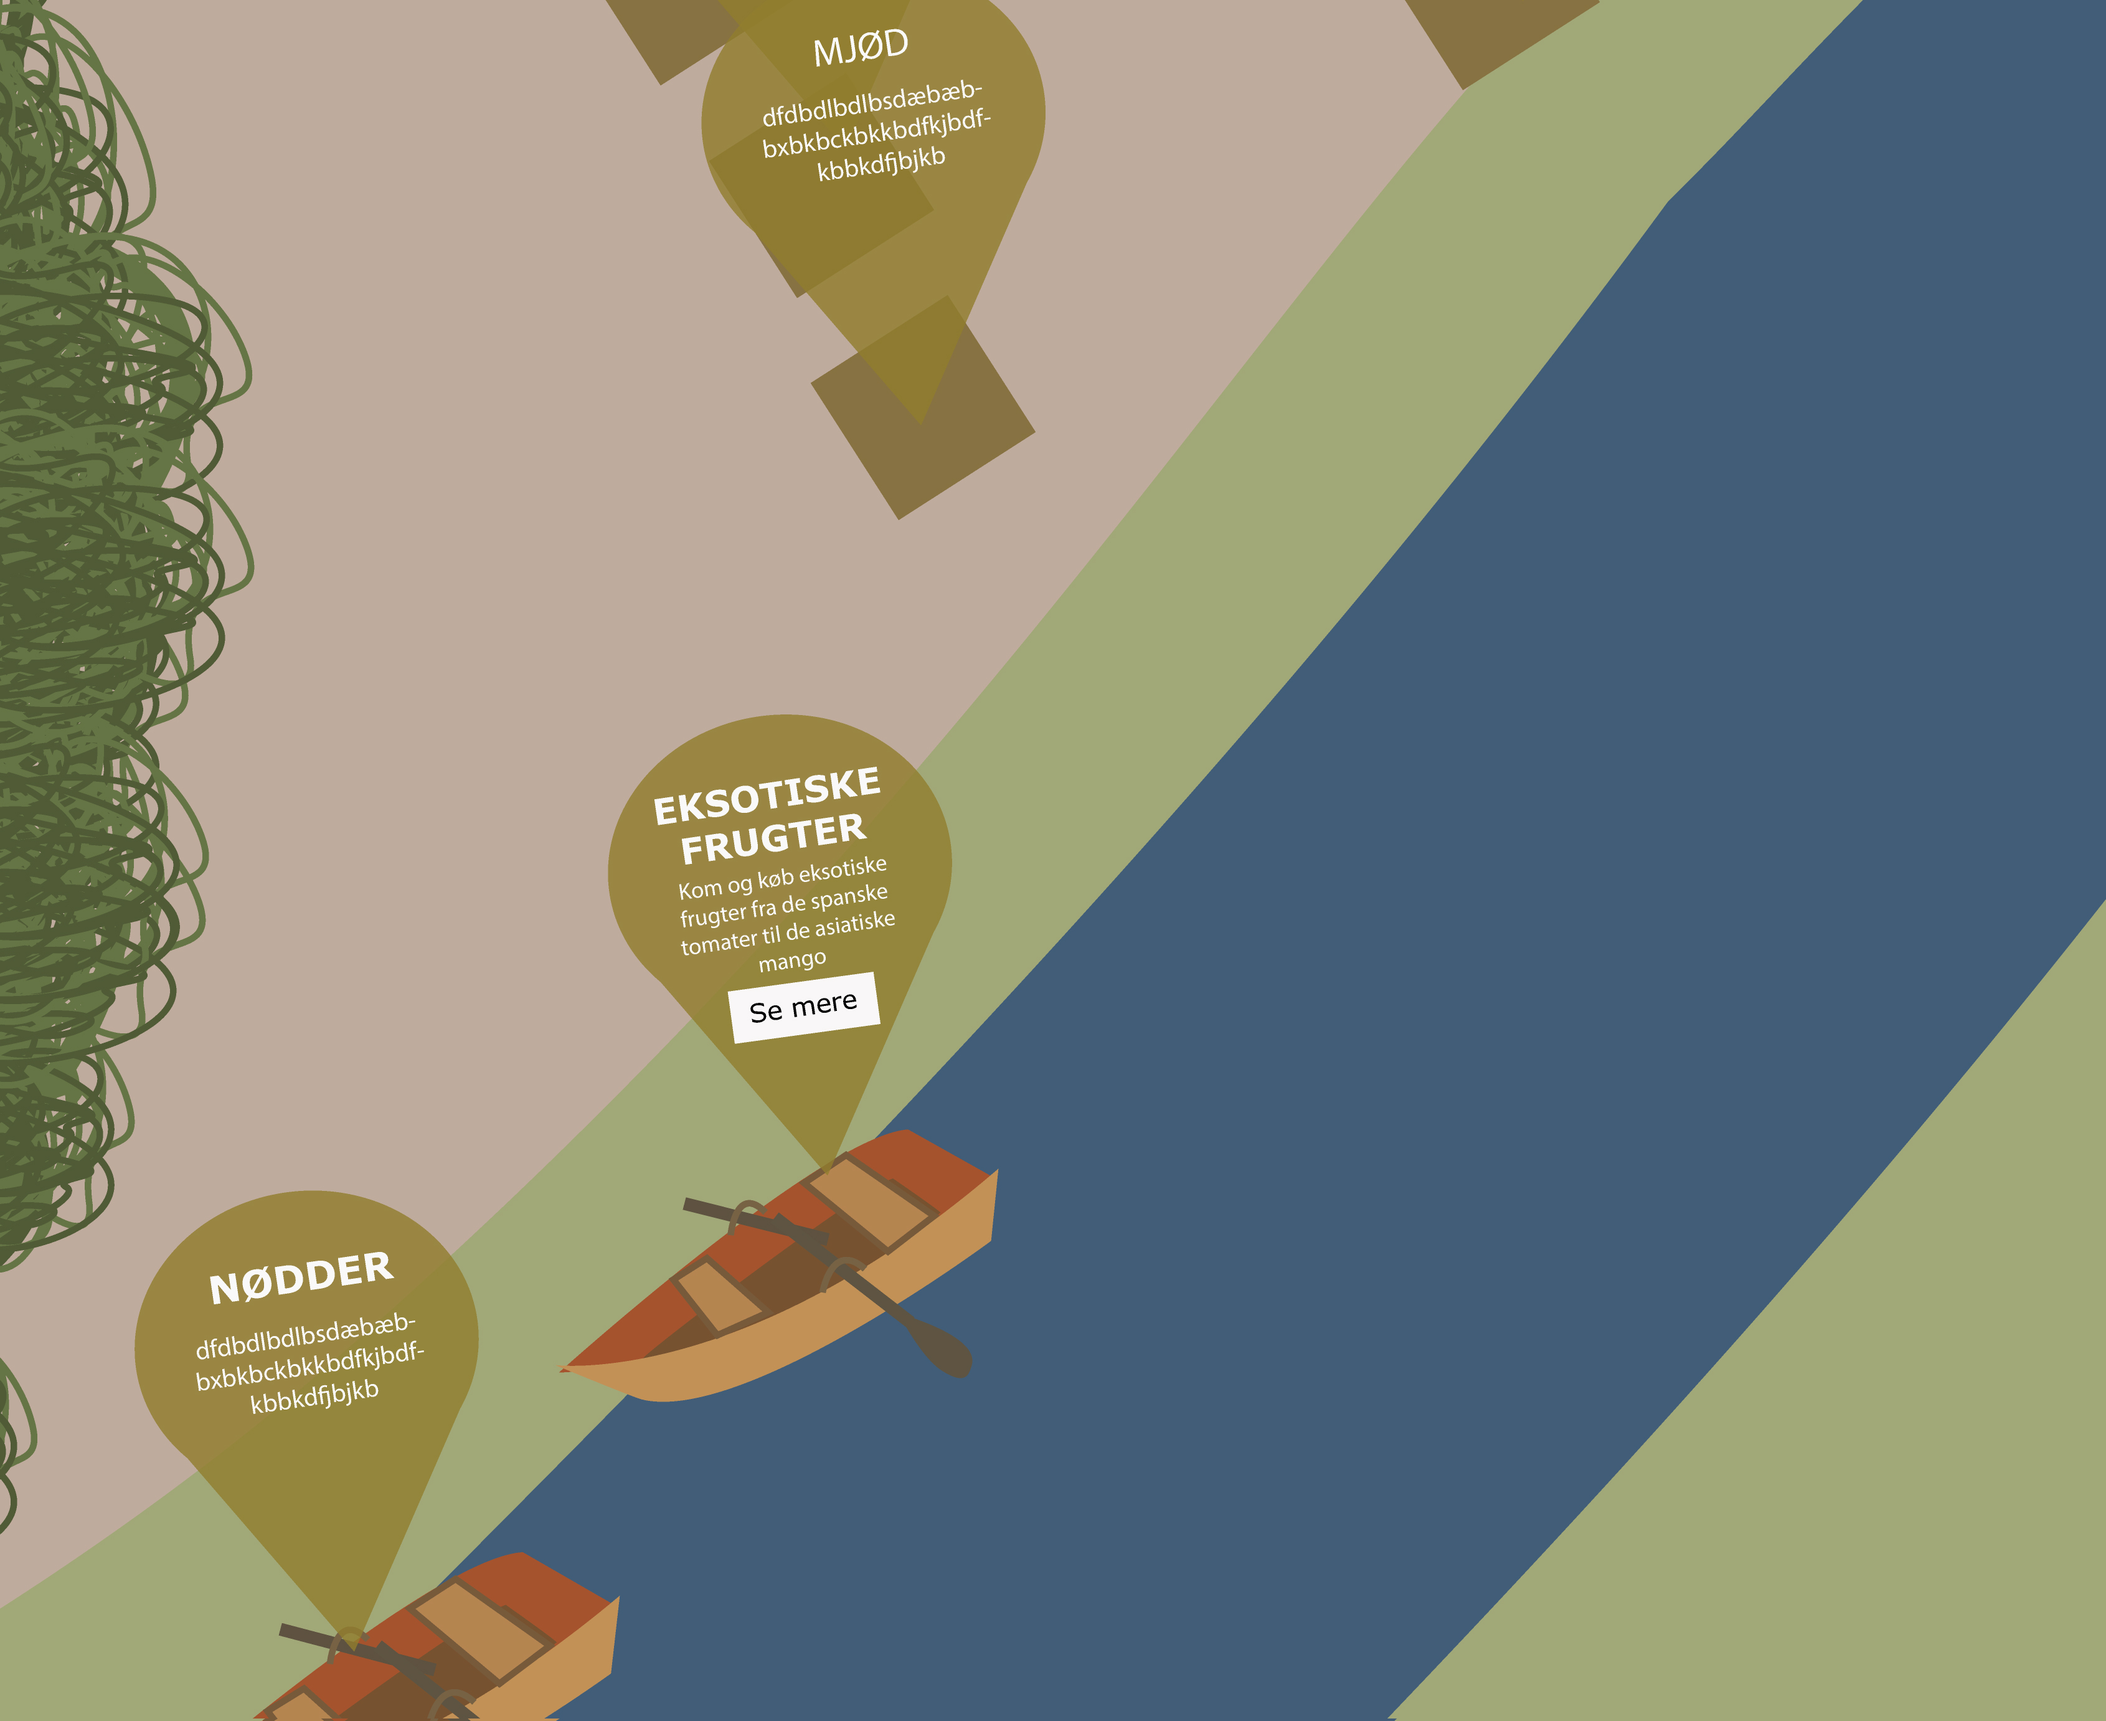
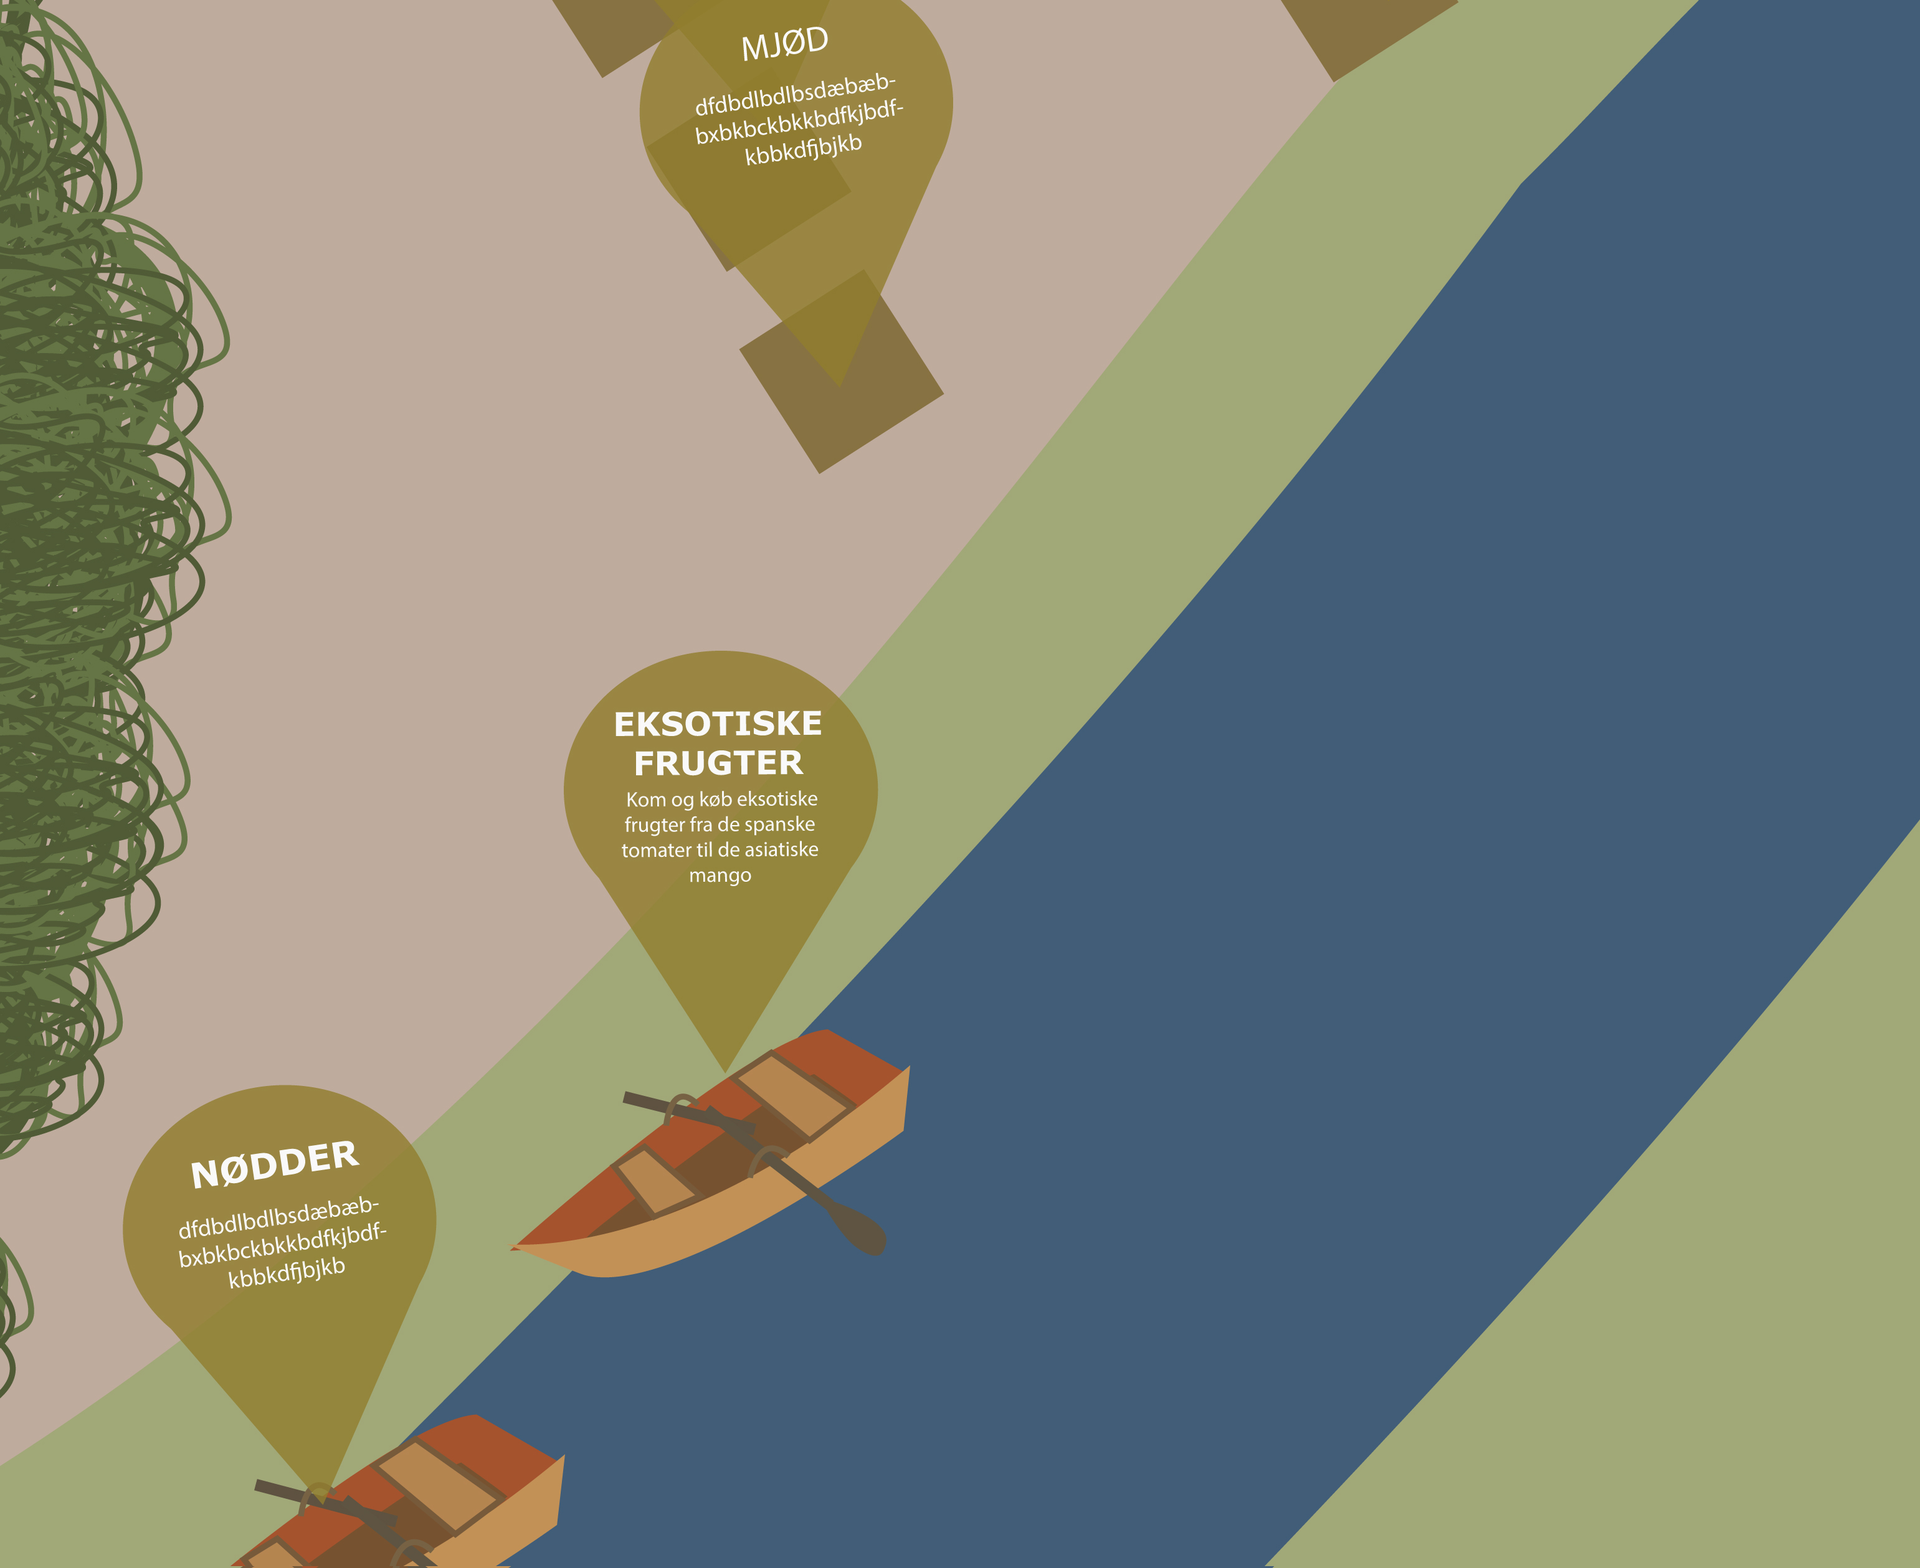
se mere knap på kort til artikel

Changed region(s): [[0.2803, 0.4337, 0.4672, 0.6815], [0.3738, 0.062, 0.4361, 0.0929], [0.0934, 0.7744, 0.1557, 0.8054]]

diff --git a/assets/css/styleskort.css b/assets/css/styleskort.css
@@ -58,6 +58,7 @@ top: 0;
  width: 20%;
  z-index: 1;
 
+
 }
 
 .banner{
@@ -145,6 +146,16 @@ background-image: url("../images/kort5.jpg");
 background-position: center;
 background-size: cover;
 cursor: zoom-out;
+
+}
+
+.semere{
+  height: 4%;
+  width: 90px;
+  position: absolute;
+  z-index: 5px;
+  margin-left: 34.6%;
+  margin-top: -245px;
 }
 
 

diff --git a/kort5.html b/kort5.html
@@ -32,7 +32,7 @@
     <a href="kort1.html"> <img id="kort5">
     </img></a>
 
-
+    <button class="semere"> Læs mere </button>
 
 
   </main>
